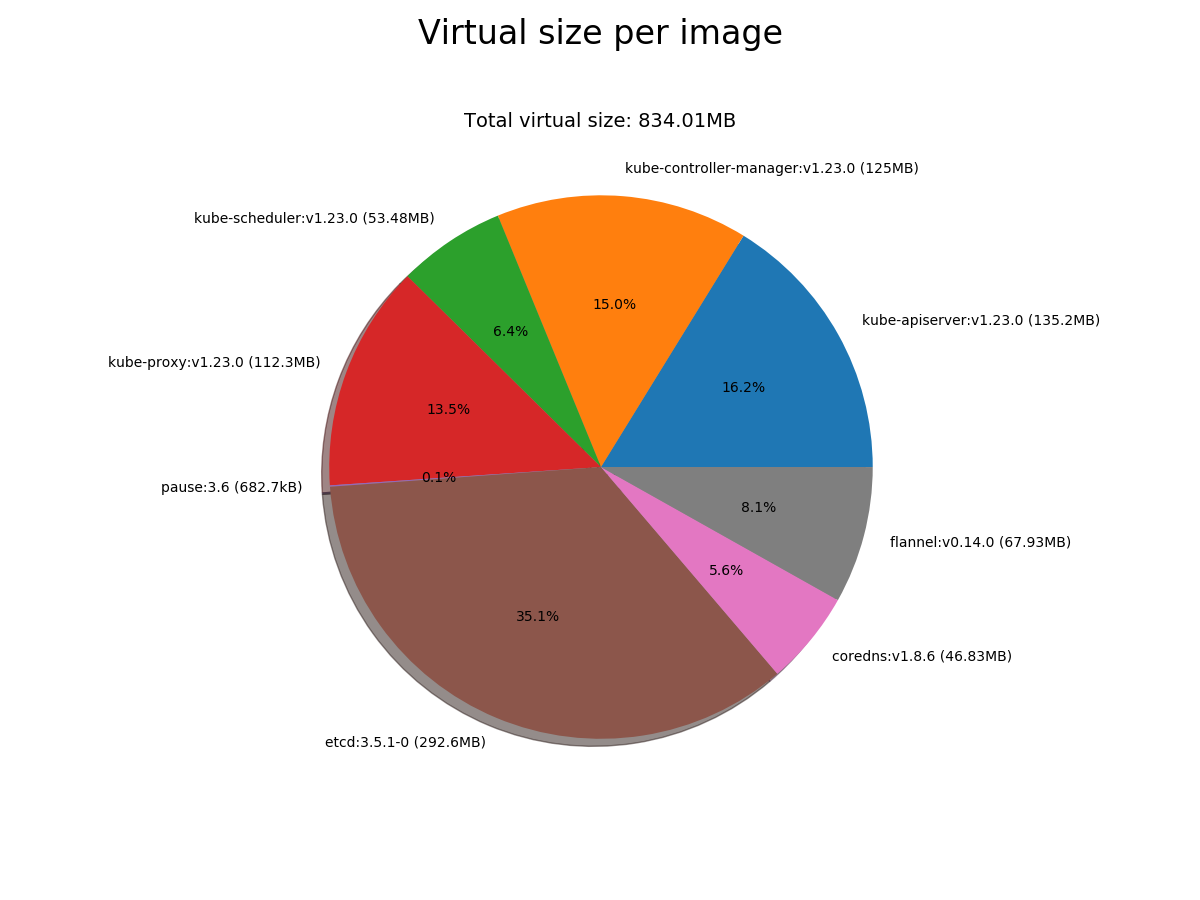
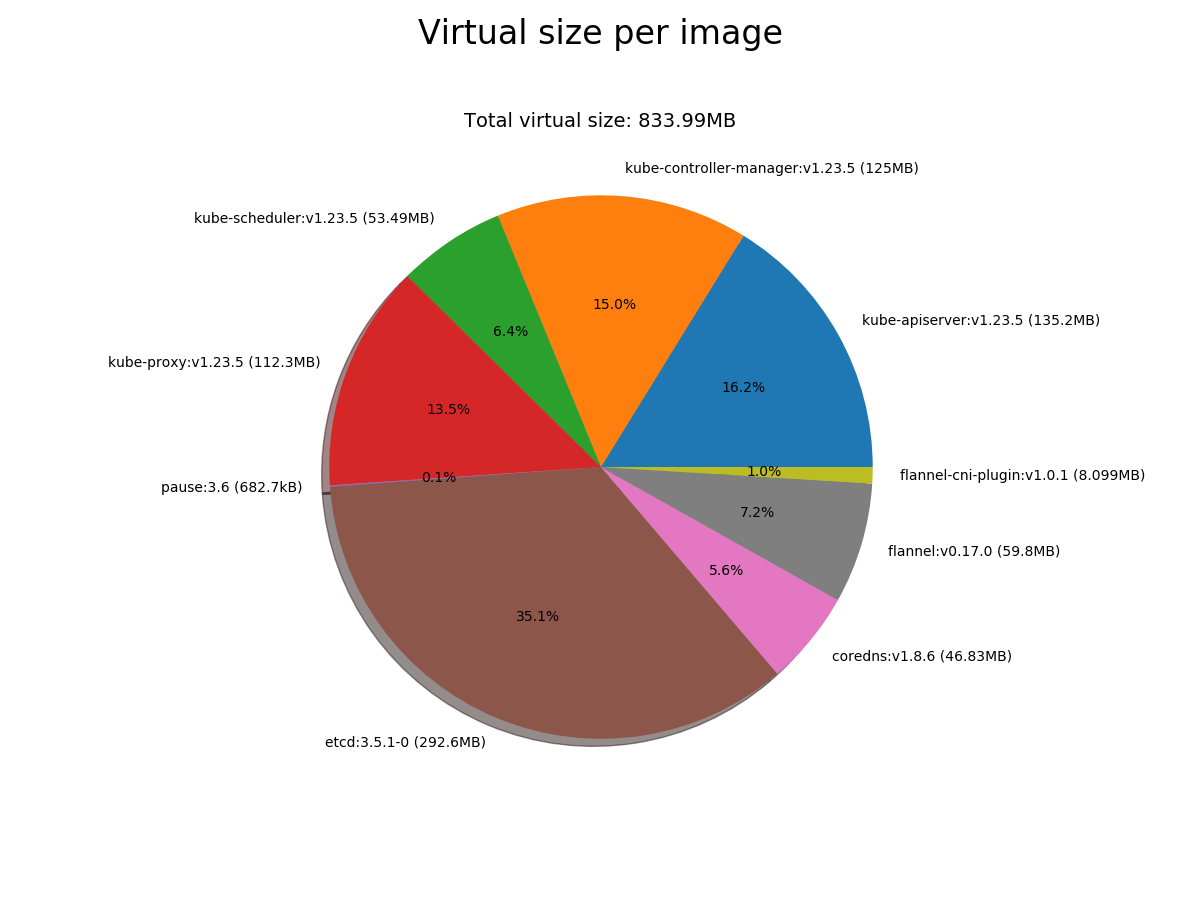
Update information for kubernetes 1.23.5

diff --git a/README.md b/README.md
@@ -46,19 +46,19 @@ Bootable image:
 Kubernetes bin:
 
 ```
-43M     kubeadm
-45M     kubectl
-113M    kubelet
+44M	/usr/bin/kubeadm
+45M	/usr/bin/kubectl
+119M	/usr/bin/kubelet
 ```
 
 Required images:
 
 ```console
 $ kubeadm config images list
-k8s.gcr.io/kube-apiserver:v1.23.0
-k8s.gcr.io/kube-controller-manager:v1.23.0
-k8s.gcr.io/kube-scheduler:v1.23.0
-k8s.gcr.io/kube-proxy:v1.23.0
+k8s.gcr.io/kube-apiserver:v1.23.5
+k8s.gcr.io/kube-controller-manager:v1.23.5
+k8s.gcr.io/kube-scheduler:v1.23.5
+k8s.gcr.io/kube-proxy:v1.23.5
 k8s.gcr.io/pause:3.6
 k8s.gcr.io/etcd:3.5.1-0
 k8s.gcr.io/coredns/coredns:v1.8.6
@@ -68,13 +68,15 @@ k8s.gcr.io/coredns/coredns:v1.8.6
 
 ```
 REPOSITORY                           TAG        IMAGE ID       CREATED         SIZE
-k8s.gcr.io/kube-apiserver            v1.23.0    e6bf5ddd4098   2 weeks ago     135MB
-k8s.gcr.io/kube-controller-manager   v1.23.0    37c6aeb3663b   2 weeks ago     125MB
-k8s.gcr.io/kube-scheduler            v1.23.0    56c5af1d00b5   2 weeks ago     53.5MB
-k8s.gcr.io/kube-proxy                v1.23.0    e03484a90585   2 weeks ago     112MB
-k8s.gcr.io/pause                     3.6        6270bb605e12   4 months ago    683kB
-k8s.gcr.io/etcd                      3.5.1-0    25f8c7f3da61   7 weeks ago     293MB
-k8s.gcr.io/coredns/coredns           v1.8.6     a4ca41631cc7   2 months ago    46.8MB
+k8s.gcr.io/kube-apiserver            v1.23.5    3fc1d62d6587   3 days ago      135MB
+k8s.gcr.io/kube-controller-manager   v1.23.5    b0c9e5e4dbb1   3 days ago      125MB
+k8s.gcr.io/kube-scheduler            v1.23.5    884d49d6d8c9   3 days ago      53.5MB
+k8s.gcr.io/kube-proxy                v1.23.5    3c53fa8541f9   3 days ago      112MB
+k8s.gcr.io/pause                     3.6        6270bb605e12   6 months ago    683kB
+k8s.gcr.io/etcd                      3.5.1-0    25f8c7f3da61   4 months ago    293MB
+k8s.gcr.io/coredns/coredns           v1.8.6     a4ca41631cc7   5 months ago    46.8MB
+flannelcni/flannel                   v0.17.0    9247abf08677   2 weeks ago     59.8MB
+flannelcni/flannel-cni-plugin        v1.0.1     ac40ce625740   8 weeks ago     8.1MB
 ```
 
 ![image size](image-size.png)
@@ -82,15 +84,16 @@ k8s.gcr.io/coredns/coredns           v1.8.6     a4ca41631cc7   2 months ago    4
 `docker pull` (gzip):
 
 ```
-31M	images/k8s.gcr.io/kube-apiserver_v1.23.0
-29M	images/k8s.gcr.io/kube-controller-manager_v1.23.0
-15M	images/k8s.gcr.io/kube-scheduler_v1.23.0
-37M	images/k8s.gcr.io/kube-proxy_v1.23.0
-284K	images/k8s.gcr.io/pause_3.6
-94M	images/k8s.gcr.io/etcd_3.5.1-0
+31M	images/k8s.gcr.io/kube-apiserver_v1.23.5
 13M	images/k8s.gcr.io/coredns/coredns_v1.8.6
-20M	images/quay.io/coreos/flannel_v0.14.0
-237M	total
+284K	images/k8s.gcr.io/pause_3.6
+15M	images/k8s.gcr.io/kube-scheduler_v1.23.5
+94M	images/k8s.gcr.io/etcd_3.5.1-0
+29M	images/k8s.gcr.io/kube-controller-manager_v1.23.5
+37M	images/k8s.gcr.io/kube-proxy_v1.23.5
+19M	images/docker.io/flannelcni/flannel_v0.17.0
+3,6M	images/docker.io/flannelcni/flannel-cni-plugin_v1.0.1
+239M	total
 ```
 
 `docker save | xz`:
